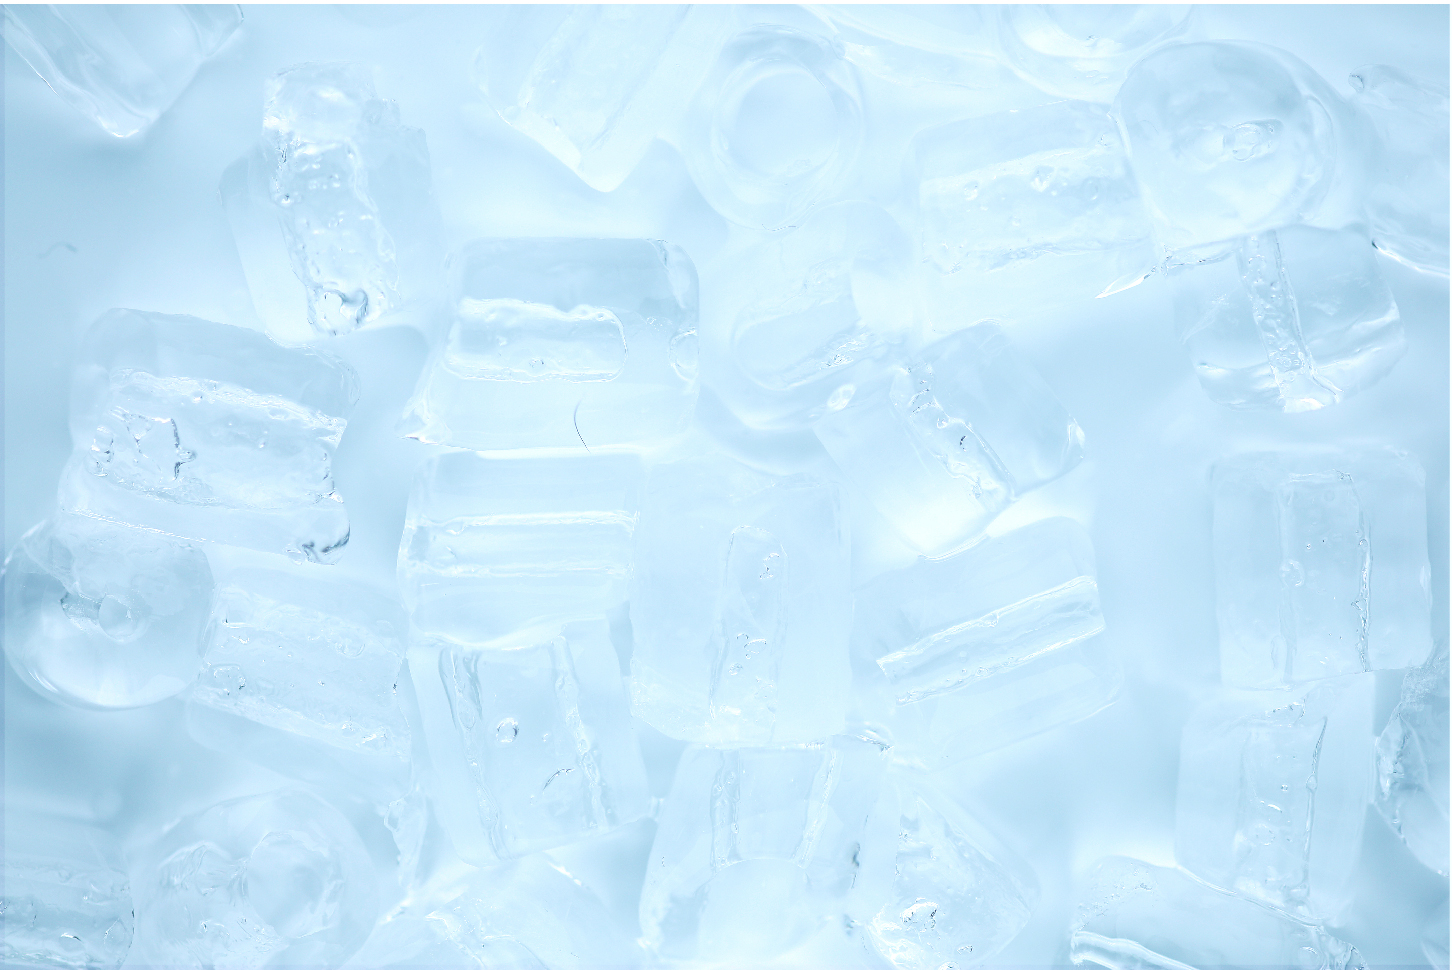
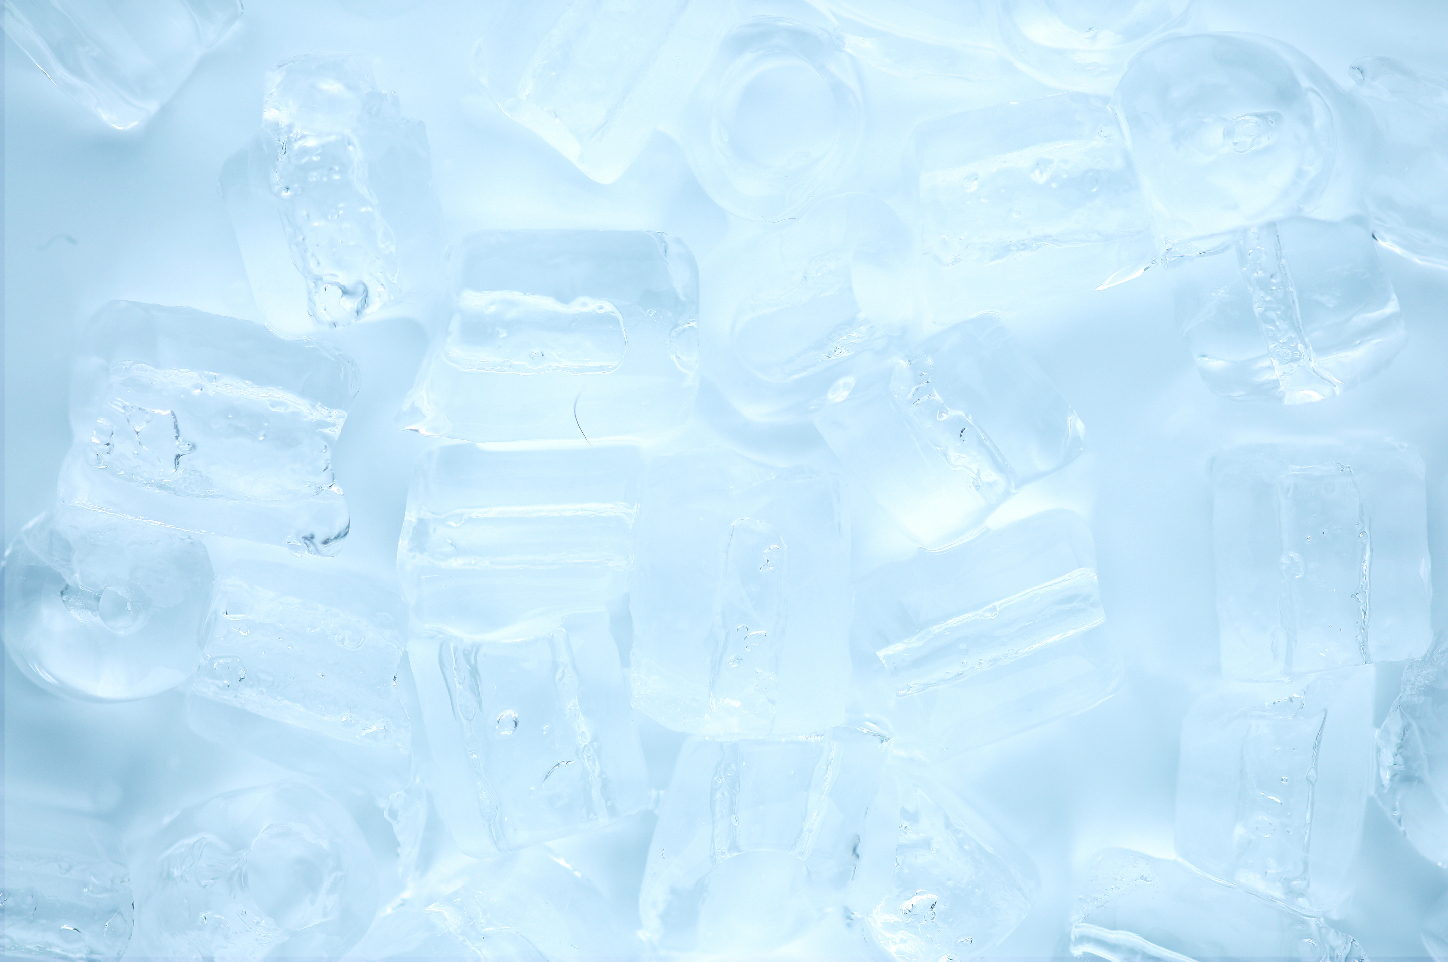
更新影片模版

diff --git a/index.html b/index.html
@@ -252,11 +252,21 @@
     </section>
     <!-- gallery01 end-->
     <!-- video01-->
-    <section class="video_01" data-menu="true">
+    <section class="video_01 video_01_2" data-menu="true">
       <h2 class="hide">焦點影音</h2>
       <div class="videoWrap">
         <div class="videoYT">
           <iframe width="1280" height="720" src="https://www.youtube.com/embed/dU5krxPqJiM?rel=0&amp;VQ=HD720" frameborder="0" allowfullscreen></iframe>
+        </div>
+      </div>
+    </section>
+    <!-- video01 end-->
+    <!-- video01-->
+    <section class="video_01" data-menu="true">
+      <h2 class="hide">焦點影音</h2>
+      <div class="videoWrap">
+        <div class="videoYT">
+          <iframe width="1280" height="720" src="https://www.youtube.com/embed/KFqrG_OIcvI?rel=0&amp;VQ=HD720" frameborder="0" allowfullscreen></iframe>
         </div>
       </div>
     </section>

diff --git a/css/index.css b/css/index.css
@@ -5760,7 +5760,10 @@ _:-ms-input-placeholder, :root .fixedBtnCover_01 .coverWrap .main .mainWrap .ite
 .video_01 {
   background-image: url("../img/video_bg.jpg");
   background-repeat: no-repeat;
-  background-size: cover; }
+  background-size: cover;
+  background-attachment: fixed; }
+  .video_01.video_01_2 {
+    background-image: url("../img/video_bg2.jpg"); }
   @media screen and (min-width: 1280px) {
     .video_01 {
       background-size: 100% auto; } }

diff --git a/scss/custom.scss b/scss/custom.scss
@@ -320,7 +320,11 @@ body {
   background-image: url('../img/video_bg.jpg');
   background-repeat: no-repeat;
   background-size: cover;
+  background-attachment: fixed;
   //background-color: rgba(23,23,118,0.7);
+  &.video_01_2 {
+    background-image: url('../img/video_bg2.jpg');
+  }
   @include screen(pcLarge) {
     //桌機模版背景
     background-size: 100% auto;
